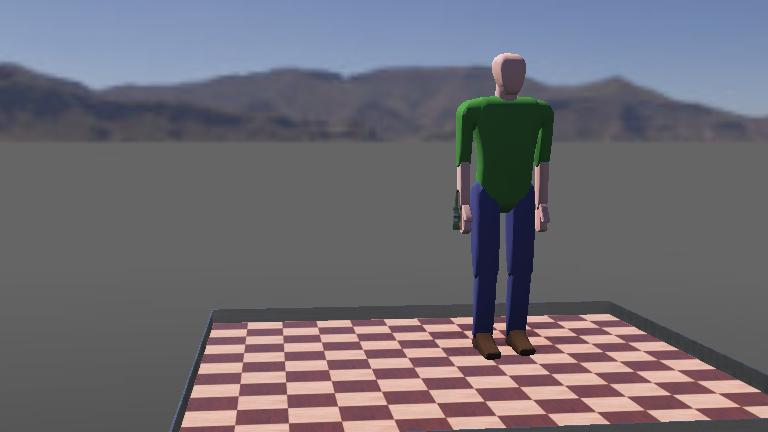
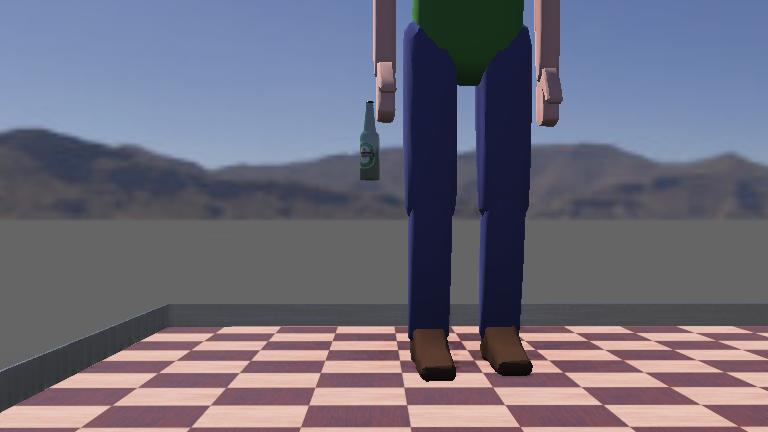
solucion parcial: acomodamiento de la botella y documentacion en readme.md

diff --git a/Examples/ejemplo1/controllers/my_controller/my_controller.py b/Examples/ejemplo1/controllers/my_controller/my_controller.py
@@ -11,8 +11,8 @@ ANGULO_STEP = math.pi / 36
 
 # --- Desplazamiento local de la botella_en_mano respecto al peatón (mano derecha) ---
 desp_x = 0.0   # adelante
-desp_y = -0.3   # lateral
-desp_z = -0.5  # altura
+desp_y = -0.25   # lateral
+desp_z = -0.7  # altura
 
 # --- Nodos del mundo ---
 nodo_peaton = supervisor.getFromDef("pedestrian1")